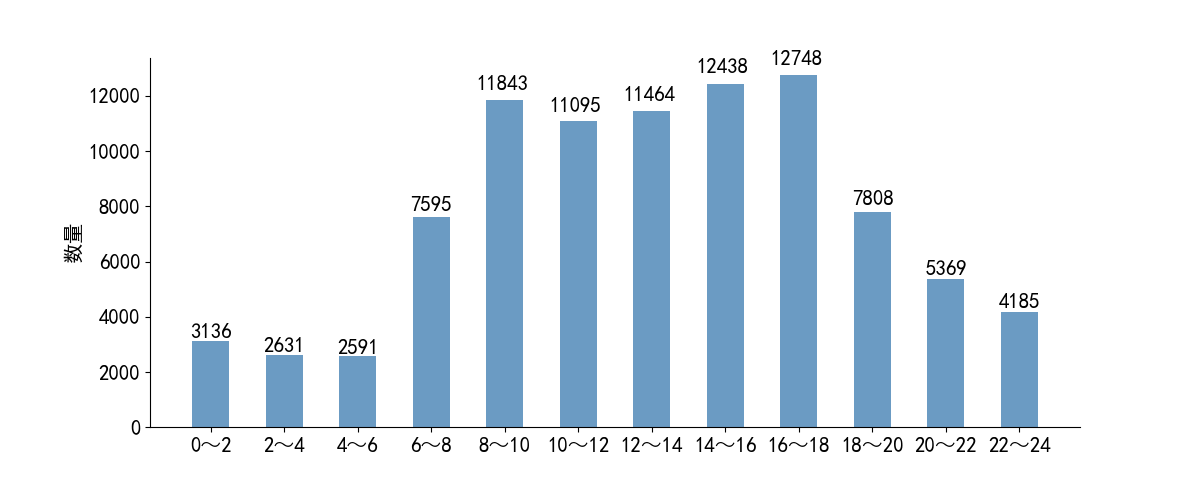
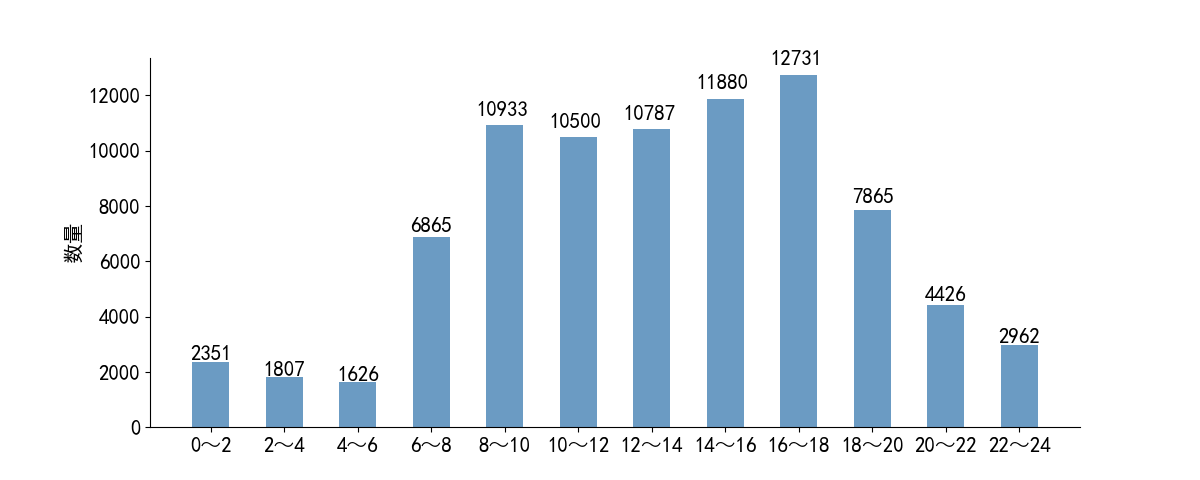
upgrade data

diff --git a/HelinConsoleApp/Program.cs b/HelinConsoleApp/Program.cs
@@ -81,8 +81,8 @@ namespace HelinConsoleApp
             var Gross_Load_Dist = new List<int>();
             var Gross_Load_Dist2 = new List<int>();
 
-            var StartDataTime = new DateTime(2019, 12, 1, 0, 0, 0);
-            var FinishDataTime = new DateTime(2020, 1, 1, 0, 0, 0);
+            var StartDataTime = new DateTime(2020, 3, 21, 0, 0, 0);
+            var FinishDataTime = new DateTime(2020, 4, 16, 0, 0, 0);
 
             //Expression<Func<HS_Data_201908, bool>> dataPredicate = x => x.HSData_DT >= StartDataTime && x.HSData_DT <= FinishDataTime;
 
@@ -92,7 +92,7 @@ namespace HelinConsoleApp
                 {
                     #region HS_DataForAnalysis
                     var HS_DataForAnalysis = (
-                        from c in db.HS_Data_201912
+                        from c in db.HS_Data_202003
                         select new MyHS_Data
                         {
                             Acceleration = c.Acceleration,
@@ -135,7 +135,7 @@ namespace HelinConsoleApp
                             Gross_Load = c.Gross_Load
                         }
                         ).Union(
-                        from e in db.HS_Data_202001
+                        from e in db.HS_Data_202004
                         select new MyHS_Data
                         {
                             Acceleration = e.Acceleration,

diff --git a/PythonApplication/PythonApplication.py b/PythonApplication/PythonApplication.py
@@ -88,10 +88,10 @@ def plotItem(plt,itemChosen):
     #不同时间段车辆总数
     #不同速度车辆数及比例
     y_dataList=[
-    [27901,14310,1681,843],
-    [27537,6680,3526,10425],
-    [3136,2631,2591,7595,11843,11095,11464,12438,12748,7808,5369,4185],
-    [775,29360,53322,9446]
+    [29645,10277,841,302],
+    [29325,3337,2791,8215],
+    [2351,1807,1626,6865,10933,10500,10787,11880,12731,7865,4426,2962],
+    [556,21221,54025,8931]
     ]
 
     ## 包含每个柱子对应值的序列
@@ -129,8 +129,8 @@ def plotItem(plt,itemChosen):
     #不同时间段车辆总数
     #不同速度车辆数及比例
     xticksPrefixList=[
-    ['0～10t','10～30t','30～50t','50t以上'],
-    ['0～10t','10～30t','30～50t','50t以上'],
+    ['0～10t','10～30t','30～50t','55t以上'],
+    ['0～10t','10～30t','30～50t','55t以上'],
     ['0～2','2～4','4～6','6～8','8～10','10～12','12～14','14～16','16～18','18～20','20～22','22～24'],
     ['0～2km/h','20～40km/h','40～60km/h','60km/h以上']
     ]
